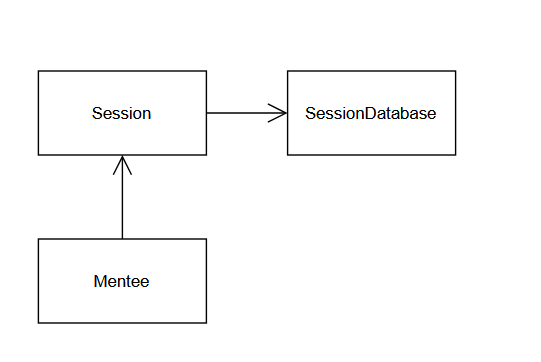
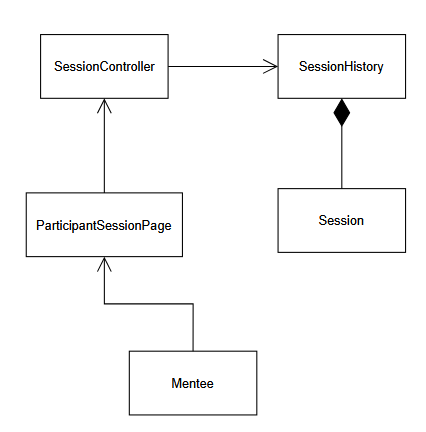
docs: revision on uc08-uc12

diff --git a/docs/M4/K01_G09_CD.md b/docs/M4/K01_G09_CD.md
@@ -460,7 +460,6 @@ Identifikasi seluruh kelas yang diperlukan berdasarkan use case dan skenarionya.
 | *C20* | *FeedbackForm* | *Kelas antarmuka dalam bentuk formulir yang diisi Mentee sebagai penilaian terhadap Mentor sehabis sesi.* | *UC07, UC13* |
 | *C21* | *GroupChatPage* | *Kelas antarmuka yang menampilkan antarmuka kotak pesan dan riwayat obrolan antarpengguna.* | *UC08* |
 | *C22* | *Notification* | *Kelas yang merepresentasikan pesan pengingat dari sistem yang menyimpan detail pesan, waktu, dan status terbaca* | *UC09* |
-| *C14* | *PopUpNotification* | *Kelas yang menampilkan notifikasi pada layar pengguna untuk mengingatkan pengguna akan sesi yang akan segera dimulai, sekaligus akan membawa pengguna ke aplikasi apabila ditekan.* | *UC08* |
 
 Pastikan setiap kelas memiliki tanggung jawab yang jelas dan memang diperlukan untuk merealisasikan fungsi yang dimodelkan. Hindari kelas yang tidak memiliki keterkaitan dengan KF atau use case manapun.
 
@@ -701,6 +700,7 @@ Pada diagram kelas, cukup tampilkan nama kelas saja. Atribut dan metode/operasi 
 | ID Kelas | Nama Kelas | Deskripsi Kelas |
 | :--- | :--- | :--- |
 | *C05* | *GroupChat* | *Kelas yang merepresentasikan ruang obrolan sementara untuk komunikasi antar pengguna.* |
+| *C21* | *GroupChatPage* | *Kelas antarmuka yang menampilkan antarmuka kotak pesan dan riwayat obrolan antarpengguna.* |
 | *C04* | *Session* | *Kelas yang merepresentasikan sesi belajar yang menyimpan atribut seperti topik materi, jadwal, kapasitas, daftar peserta, dan status sesi* |
 | *C08* | *ChatMessage* | *Kelas yang merepresentasikan pesan yang dikirimkan oleh pengguna ke dalam sebuah GroupChat. Menyimpan informasi pengirim, isi pesan teks, dan timestamp pesan dikirim.* |
 | *C01* | *User* | *Kelas parent yang merepresentasikan pengguna aplikasi (Mentor, Mentee) yang menyimpan informasi akun dasar seperti profil, email universitas, kata sandi, preferensi materi, dan jadwal.* |
@@ -718,7 +718,8 @@ Pada diagram kelas, cukup tampilkan nama kelas saja. Atribut dan metode/operasi 
  
 | ID Kelas | Nama Kelas | Atribut | Metode/Operasi |
 | :--- | :--- | :--- | :--- |
-| *C05* | *GroupChat* | *listChatMessage, listMentee, Mentor* | *searchMessage, displayMessage, editMessage, deleteMessage* |
+| *C05* | *GroupChat* | *listChatMessage, listMentee, Mentor* | *searchMessage, editMessage, deleteMessage* |
+| *C21* | *GroupChatPage* | *-* | *displayMessage* |
 | *C04* | *Session* | *groupChat* | *openGroupChat* |
 | *C08* | *ChatMessage* | *sender, timeStamp, text* | *getSender, getTime, getText* |
 | *C01* | *User* | *listSession* | *openSessionDashboard, createMessage, sendMessage* |
@@ -731,9 +732,9 @@ Pada diagram kelas, cukup tampilkan nama kelas saja. Atribut dan metode/operasi 
  
 | ID Kelas | Nama Kelas | Deskripsi Kelas |
 | :--- | :--- | :--- |
-| *C14* | *PopUpNotification* | *Kelas yang menampilkan notifikasi pada layar pengguna untuk mengingatkan pengguna akan sesi yang akan segera dimulai, sekaligus akan membawa pengguna ke aplikasi apabila ditekan.* |
+| *C22* | *Notification* | *Kelas yang merepresentasikan pesan pengingat dari sistem yang menyimpan detail pesan, waktu, dan status terbaca* |
 | *C04* | *Session* | *Kelas yang merepresentasikan sesi belajar yang menyimpan atribut seperti topik materi, jadwal, kapasitas, daftar peserta, dan status sesi* |
-| *C13* | *SessionDatabase* | *Kelas pengontrol yang bertanggung jawab menyimpan, memperbarui, memvalidasi tabrakan jadwal, serta mengambil data Session, Feedback, dan SessionHistory dari sistem.* |
+| *C11* | *Dashboard* | *Kelas antarmuka utama yang menampilkan rangkuman jadwal sesi terdekat, notifikasi, dan rekomendasi matchmaking untuk Mentee.* |
 | *C01* | *User* | *Kelas parent yang merepresentasikan pengguna aplikasi (Mentor, Mentee) yang menyimpan informasi akun dasar seperti profil, email universitas, kata sandi, preferensi materi, dan jadwal.* |
  
 #### Diagram Kelas
@@ -749,10 +750,10 @@ Pada diagram kelas, cukup tampilkan nama kelas saja. Atribut dan metode/operasi 
  
 | ID Kelas | Nama Kelas | Atribut | Metode/Operasi |
 | :--- | :--- | :--- | :--- |
-| *C14* | *PopUpNotification* | *notificationId, title, content, timestamp, isRead* | *markAsRead, showContent, getTime, openApp()* |
+| *C22* | *Notification* | *notificationId, title, content, timestamp, isRead* | *markAsRead, showContent, getTime, openApp* |
 | *C04* | *Session* | *scheduledTime* | *pushNotification* |
-| *C13* | *SessionDatabase* | *listSession* | *getSession* |
-| *C01* | *User* | *listSession* | *checkSchedule* |
+| *C11* | *Dashboard* | *-* | *showSession, matchMakeSession, searchSession, checkSchedule* |
+| *C01* | *User* | *-* | *openDashboard* |
 
 ### 4.2.10 Use Case UC10
  
@@ -763,7 +764,9 @@ Pada diagram kelas, cukup tampilkan nama kelas saja. Atribut dan metode/operasi 
 | ID Kelas | Nama Kelas | Deskripsi Kelas |
 | :--- | :--- | :--- |
 | *C04* | *Session* | *Kelas yang merepresentasikan sesi belajar yang menyimpan atribut seperti topik materi, jadwal, kapasitas, daftar peserta, dan status sesi* |
-| *C13* | *SessionDatabase* | *Kelas pengontrol yang bertanggung jawab menyimpan, memperbarui, memvalidasi tabrakan jadwal, serta mengambil data Session, Feedback, dan SessionHistory dari sistem.* |
+| *C19* | *ParticipantSessionPage* | *Kelas turunan dari SessionPage tempat Mentee dapat membatalkan untuk mengikuti sesi* |
+| *C07* | *SessionHistory* | *Kelas yang menyimpan kumpulan riwayat sesi milik seorang pengguna dengan mengelompokkannya berdasarkan status (Berlangsung, Terlaksana, Tidak Terlaksana).* |
+| *C13* | *SessionControl* | *Kelas pengontrol yang menangani tabrakan jadwal, menjalankan algoritma matchmaking, dan memproses pendaftaran atau pembuatan sesi.* |
 | *C01* | *Mentee* | *Kelas turunan dari User yang merepresentasikan siswa. Memiliki hak untuk mencari rekomendasi sesi, mendaftarkan ke sesi, serta membatalkan ikutsertaan sesi* |
  
 #### Diagram Kelas
@@ -780,8 +783,10 @@ Pada diagram kelas, cukup tampilkan nama kelas saja. Atribut dan metode/operasi 
 | ID Kelas | Nama Kelas | Atribut | Metode/Operasi |
 | :--- | :--- | :--- | :--- |
 | *C04* | *Session* | *listMentee* | *removeMentee* |
-| *C13* | *SessionDatabase* | *listSession* | *overwriteSession* |
-| *C03* | *Mentee* | *listSession* | *cancelSession* |
+| *C19* | *ParticipantSessionPage* | *-* | *-* |
+| *C07* | *SessionHistory* | *oncomingSession* | *-* |
+| *C13* | *SessionControl* | *sessionHistory* | *cancelSession* |
+| *C03* | *Mentee* | *listSession* | *-* |
 
 ### 4.2.11 Use Case UC11
  
@@ -792,7 +797,9 @@ Pada diagram kelas, cukup tampilkan nama kelas saja. Atribut dan metode/operasi 
 | ID Kelas | Nama Kelas | Deskripsi Kelas |
 | :--- | :--- | :--- |
 | *C04* | *Session* | *Kelas yang merepresentasikan sesi belajar yang menyimpan atribut seperti topik materi, jadwal, kapasitas, daftar peserta, dan status sesi* |
-| *C13* | *SessionDatabase* | *Kelas pengontrol yang bertanggung jawab menyimpan, memperbarui, memvalidasi tabrakan jadwal, serta mengambil data Session, Feedback, dan SessionHistory dari sistem.* |
+| *C13* | *SessionControl* | *Kelas pengontrol yang menangani tabrakan jadwal, menjalankan algoritma matchmaking, dan memproses pendaftaran atau pembuatan sesi.* |
+| *C07* | *SessionHistory* | *Kelas yang menyimpan kumpulan riwayat sesi milik seorang pengguna dengan mengelompokkannya berdasarkan status (Berlangsung, Terlaksana, Tidak Terlaksana).* |
+| *C18* | *HostSessionPage* | *Kelas turunan dari SessionPage sebagai tempat Mentor dapat melakukan pembaruan data atau penghapusan.* |
 | *C02* | *Mentor* | *Kelas turunan dari User yang merepresentasikan tutor sebaya. Kelas ini memiliki hak untuk membaut sesi baru, mengedit sesi, dan menghapus sesi.* |
  
 #### Diagram Kelas
@@ -809,8 +816,10 @@ Pada diagram kelas, cukup tampilkan nama kelas saja. Atribut dan metode/operasi 
 | ID Kelas | Nama Kelas | Atribut | Metode/Operasi |
 | :--- | :--- | :--- | :--- |
 | *C04* | *Session* | *sessionId* | *getSessionId* |
-| *C13* | *SessionDatabase* | *listSession* | *deleteSession* |
-| *C02* | *Mentor* | *listSession* | *cancelSession* |
+| *C13* | *SessionControl* | *sessionHistory* | *deleteSession* |
+| *C07* | *SessionHistory* | *oncomingSession* | *-* |
+| *C18* | *HostSessionPage* | *-* | *-* |
+| *C02* | *Mentor* | *listSession* | *-* |
 
 ### 4.2.12 Use Case UC12
  
@@ -821,7 +830,9 @@ Pada diagram kelas, cukup tampilkan nama kelas saja. Atribut dan metode/operasi 
 | ID Kelas | Nama Kelas | Deskripsi Kelas |
 | :--- | :--- | :--- |
 | *C04* | *Session* | *Kelas yang merepresentasikan sesi belajar yang menyimpan atribut seperti topik materi, jadwal, kapasitas, daftar peserta, dan status sesi* |
-| *C13* | *SessionDatabase* | *Kelas pengontrol yang bertanggung jawab menyimpan, memperbarui, memvalidasi tabrakan jadwal, serta mengambil data Session, Feedback, dan SessionHistory dari sistem.* |
+| *C13* | *SessionControl* | *Kelas pengontrol yang menangani tabrakan jadwal, menjalankan algoritma matchmaking, dan memproses pendaftaran atau pembuatan sesi.* |
+| *C07* | *SessionHistory* | *Kelas yang menyimpan kumpulan riwayat sesi milik seorang pengguna dengan mengelompokkannya berdasarkan status (Berlangsung, Terlaksana, Tidak Terlaksana).* |
+| *C18* | *HostSessionPage* | *Kelas turunan dari SessionPage sebagai tempat Mentor dapat melakukan pembaruan data atau penghapusan.* |
 | *C02* | *Mentor* | *Kelas turunan dari User yang merepresentasikan tutor sebaya. Kelas ini memiliki hak untuk membaut sesi baru, mengedit sesi, dan menghapus sesi.* |
  
 #### Diagram Kelas
@@ -838,10 +849,15 @@ Pada diagram kelas, cukup tampilkan nama kelas saja. Atribut dan metode/operasi 
 | ID Kelas | Nama Kelas | Atribut | Metode/Operasi |
 | :--- | :--- | :--- | :--- |
 | *C04* | *Session* | *sessionTitle, description, preference, schedule* | *editTitle, editDescription, editPreference, editSchedule* |
-| *C13* | *SessionDatabase* | *listSession* | *overwriteSession* |
-| *C02* | *Mentor* | *listsession* | *editSession* |
+| *C13* | *SessionControl* | *session* | *editSession* |
+| *C07* | *SessionHistory* | *oncomingSession* | *updateOncomingSession* |
+| *C18* | *HostSessionPage* | *-* | *-* |
+| *C02* | *Mentor* | *listsession* | *-* |
 
 > Lanjutkan pola **4.2.x** untuk setiap use case pada 3.2.
+
+| ID Kelas | Nama Kelas | Atribut | Metode/Operasi |
+| :--- | :--- | :--- | :--- |
 | *C02* | *Mentor* | *sessionID, topic, schedule, format, capacity, userList, status* | *inherit dari User* |
 | *C03* | *Mentee* | *materialTag, availibility, sessionTypePreference* | *inherit dari User* |
 | *C06* | *Feedback* | *idFeedback, author, target, content, score* | *showRecommendation()* |
